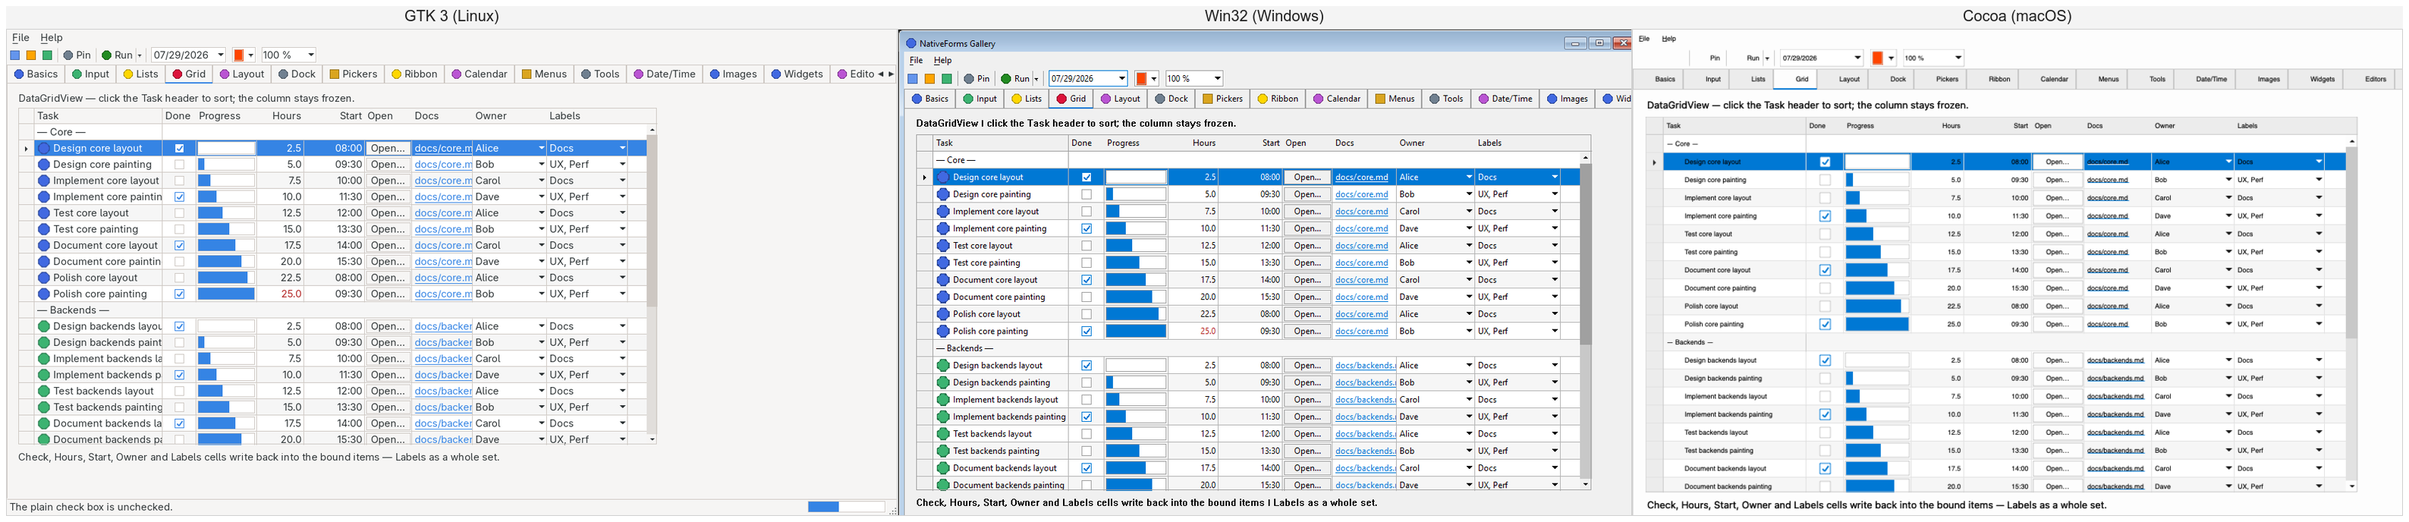
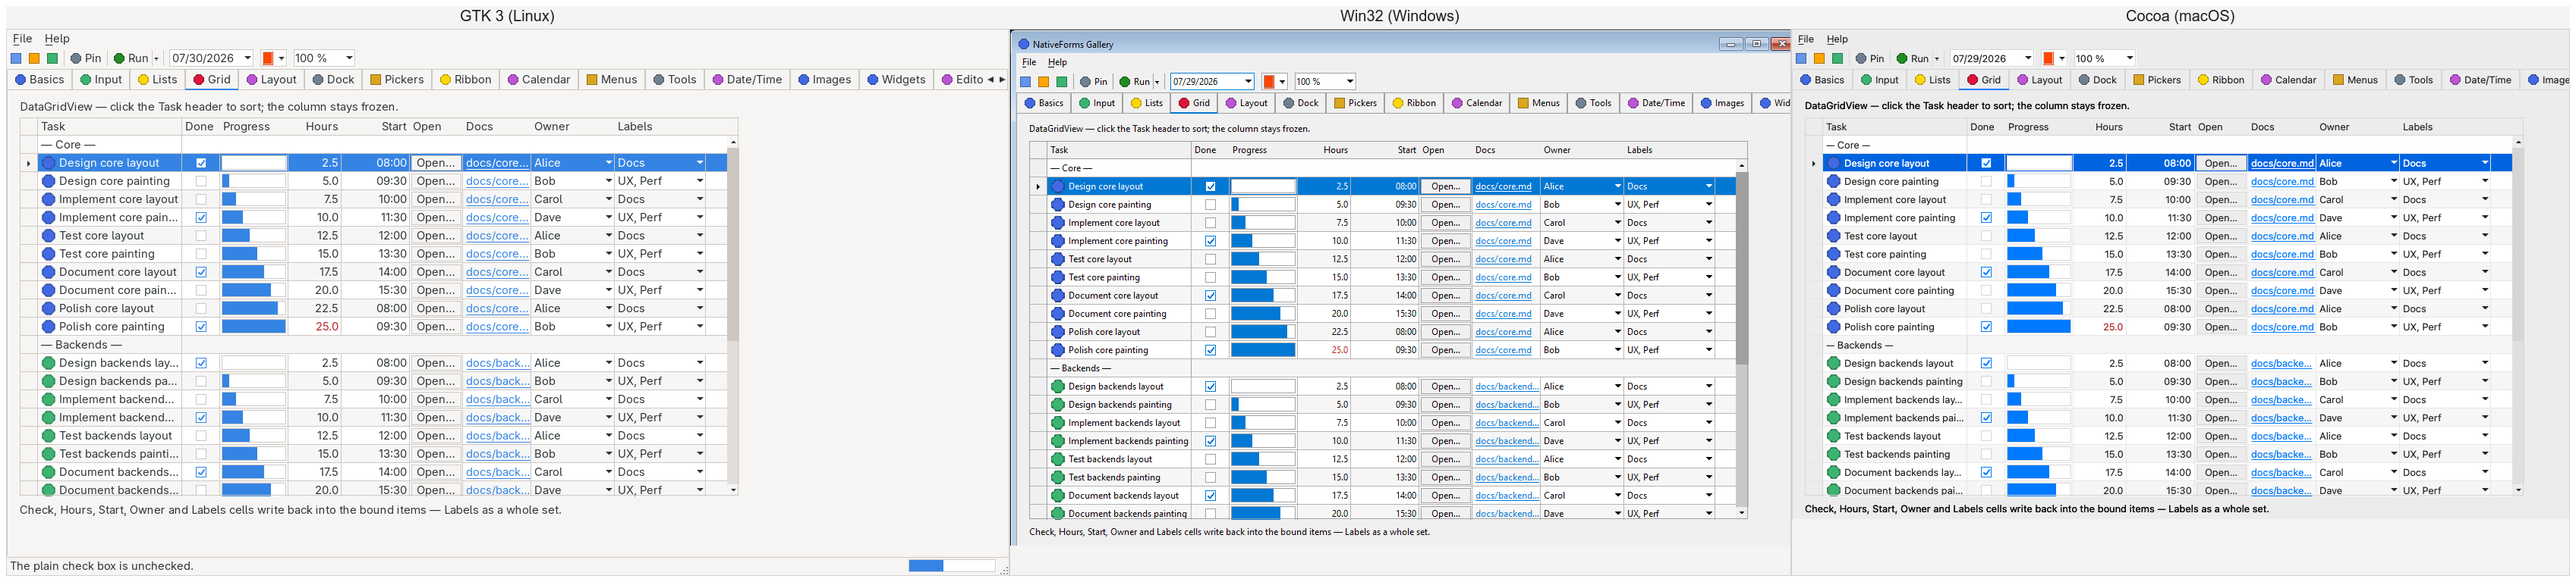
* All sixteen gallery pages stand side by side, at each backend's own pixels
The comparison section carried two pages, Grid and Widgets, which is enough to
show that the three backends exist and not enough to compare them. It now
carries every page of the walkthrough, one heading per page under the name the
tab strip gives it, from one CI run for Win32 and Cocoa and a local shoot at the
same commit for GTK.

The strips are no longer resized to a common height. The three windows differ in
size but not in content scale - the same control is the same number of pixels on
all three - so scaling to a common height was shrinking the GTK column's content
by a ninth against the other two, and comparing three different scales. Each
panel is padded to the tallest of the three instead, which keeps the text crisp,
keeps like beside like, and costs less: sixteen strips at native resolution are
3.6 MB where the same sixteen resampled to 640 rows were 8.2 MB, because
resampling turns crisp text into a cloud of unique colours that PNG cannot pack.
A 256-colour palette would halve it again and bands every gradient in the
gallery, so it is not taken.

Prose is attached to five pages and no others: the mnemonic underline on Basics,
the multiline placeholder and the hairline scroll bars on Input, the absent menu
on Menus, the size-mode arithmetic on Images, and the group box on Native. The
rest are shown without commentary rather than given a sentence for symmetry.

docs/PRD.md section 9, per-platform screenshots for owner-drawn controls.

Changed region(s): [[0.0, 0.0, 0.9978, 1.0], [0.8107, 0.0, 0.8731, 0.061], [0.1559, 0.0, 0.2183, 0.061]]

diff --git a/docs/backends.md b/docs/backends.md
@@ -24,15 +24,100 @@ own in-process capture. Nothing is staged, and nothing is a mock-up.
 
 ## Side by side
 
-Left to right: GTK 3, Win32, Cocoa.
+Every page of the gallery, left to right: GTK 3, Win32, Cocoa. Nothing is scaled — each panel is that
+backend's own capture at its own pixels, padded to a common height — so a control that comes out a
+different width is one the platform measured differently rather than one a resize moved. The GTK
+window is the largest of the three, which is why its column shows more of whatever fills the space it
+is given.
 
-### DataGridView
+### Basics
+
+![The Basics page on all three backends](screenshots/backends/00-basics.png)
+
+The mnemonic's underline is drawn on macOS and on neither of the other two. GTK and Windows hide it
+until Alt is held, which is their desktops' convention; this one has no such convention and no
+message that reports the modifier, so the line is simply drawn.
+
+### Input
+
+![The Input page on all three backends](screenshots/backends/01-input.png)
+
+Only GTK shows the multiline placeholder: `EM_SETCUEBANNER` is a single-line message a multiline
+`EDIT` ignores, `NSTextView` carries no placeholder at all, and painting one over an editor whose
+caret and selection belong to the platform is a fight both backend sections below decline. The
+standalone scroll bars are the second tell — Windows 11 draws a themed scroll bar as a hairline until
+the pointer is over it, and nothing is hovering while a capture is taken.
+
+### Lists
+
+![The Lists page on all three backends](screenshots/backends/02-lists.png)
+
+### Grid
 
 ![The Grid page on all three backends](screenshots/backends/03-grid.png)
+
+### Layout
+
+![The Layout page on all three backends](screenshots/backends/04-layout.png)
+
+### Dock
+
+![The Dock page on all three backends](screenshots/backends/05-dock.png)
+
+### Pickers
+
+![The Pickers page on all three backends](screenshots/backends/06-pickers.png)
+
+### Ribbon
+
+![The Ribbon page on all three backends](screenshots/backends/07-ribbon.png)
+
+### Calendar
+
+![The Calendar page on all three backends](screenshots/backends/08-calendar.png)
+
+### Menus
+
+![The Menus page on all three backends](screenshots/backends/09-menus.png)
+
+No menu is open in any of the three, and none is missing: a menu is a borderless window of its own,
+and what is photographed is the page that opens it.
+
+### Tools
+
+![The Tools page on all three backends](screenshots/backends/10-tools.png)
+
+### Date/Time
+
+![The Date and Time page on all three backends](screenshots/backends/11-datetime.png)
+
+### Images
+
+![The Images page on all three backends](screenshots/backends/12-images.png)
+
+The six size modes are the one thing in the gallery that is arithmetic rather than judgement, and the
+three columns agree row for row: the 150×70 source stands 70 rows tall against the top of its 150×100
+box under `Normal`, the same 70 rows centred under `CenterImage`, `Zoom` and `FitToWidth`, the whole
+box under `StretchImage`, and a 214-wide scale clipped to the box's width under `FitToHeight`.
 
 ### Widgets
 
 ![The Widgets page on all three backends](screenshots/backends/13-widgets.png)
+
+### Editors
+
+![The Editors page on all three backends](screenshots/backends/14-editors.png)
+
+### Native
+
+![The Native page on all three backends](screenshots/backends/15-native.png)
+
+The promotion page reads down its three groups rather than across the three columns: the first is
+realised onto the platform's own widget, the second is the owner-drawn twin carrying the same
+properties, and the third is what no platform offers and the toolkit therefore paints. The group box
+is the clearest tell, and the difference is between desktops rather than between the two renderings —
+GTK and Win32 both break the frame around the caption, where AppKit sets the caption above a rounded
+`NSBox`.
 
 ## Where the differences come from
 
